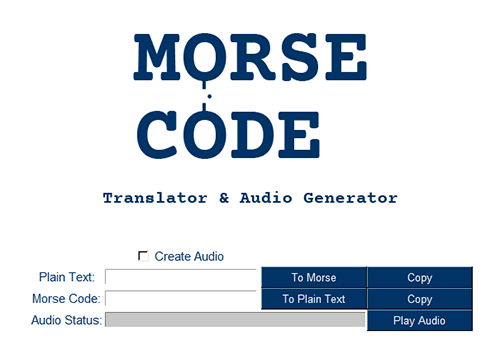
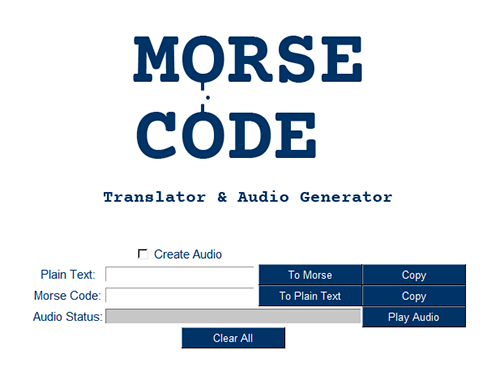
v0.8.0
Two new utility functions: one that sets the global variable (`most_recent_filepath`), and one that clears all input/output fields; new button for the new clearing function; main function in `morse_code.py` that is called only if the file is run directly; functions now call the new setting utility function instead of writing directly to the above-mentioned global variable; improved regex patterns verbose descriptions, a module docstrings and added a comment for the global variable.

Changed region(s): [[0.06, 0.6417, 0.96, 0.9472], [0.27, 0.0917, 0.75, 0.4583], [0.21, 0.4889, 0.81, 0.5806]]

diff --git a/modules/functions.py b/modules/functions.py
@@ -1,8 +1,15 @@
 """
 This module contains all the functions used by the application.
 
-It defines: play_audio_file, create_audio_file,
-translate_to_morse_code, translate_to_plain_text & copy_to_clipboard.
+It defines:
+1. play_audio_file(),
+2. change_entry_text(),
+3. change_most_recent(),
+4. create_audio_file(),
+5. translate_to_morse_code(),
+6. translate_to_plain_text(),
+7. copy_to_clipboard(),
+8. and clear_all().
 """
 
 import tkinter as tk
@@ -16,6 +23,7 @@ import pyperclip
 import pycw
 from modules.globals import *
 
+# Path to the most recently generated audio file
 most_recent_audio_filepath: str = ""
 
 
@@ -76,6 +84,22 @@ def change_entry_text(entry_to_change: tk.Entry, change_to: str = "") -> None:
         entry_to_change.config(state="readonly")
 
 
+def change_most_recent_filepath(change_to: str = "") -> None:
+    """A utility function to change the most_recent_filepath
+    global variable.
+
+    Args:
+        change_to: str: The value to assign to the global variable.
+        Defaults to an empty str.
+
+    Returns:
+        None
+    """
+
+    global most_recent_audio_filepath
+    most_recent_audio_filepath = change_to
+
+
 def create_audio_file(normalized_text: str, audio_status: tk.Entry) -> None:
     """Generate the Morse code audio file from a normalized text.
 
@@ -100,8 +124,7 @@ def create_audio_file(normalized_text: str, audio_status: tk.Entry) -> None:
             normalized_text = re.sub(pattern=PATT_SANITIZE_PLAIN_TEXT_INPUT, repl="", string=normalized_text)
 
         else:
-            global most_recent_audio_filepath
-            most_recent_audio_filepath = ""
+            change_most_recent_filepath()
             change_entry_text(entry_to_change=audio_status)
             return None
 
@@ -134,7 +157,7 @@ def create_audio_file(normalized_text: str, audio_status: tk.Entry) -> None:
 
     else:
         # Save the audio filepath as the most recent one
-        most_recent_audio_filepath = audio_filepath
+        change_most_recent_filepath(change_to=audio_filepath)
         change_entry_text(entry_to_change=audio_status, change_to=f"{AUDIO_READY_MESSAGE} {most_recent_audio_filepath}")
 
 
@@ -180,8 +203,7 @@ def translate_to_morse_code(user_plain_text: str, audio_request: bool, audio_sta
             # any text in the most_recent_audio_filepath
             # and in audio_status, then display a warning
             # about the meaningless sequence in the input.
-            global most_recent_audio_filepath
-            most_recent_audio_filepath = ""
+            change_most_recent_filepath()
             change_entry_text(entry_to_change=audio_status)
             msgbox.showwarning(title=MSGBOX_TITLE_WARNING, message=MSGBOX_MSG_MEANINGLESS_TO_MORSE_WARNING)
 
@@ -241,14 +263,13 @@ def translate_to_plain_text(user_morse_code_text: str, audio_request: bool,
             # any text in the most_recent_audio_filepath
             # and in audio_status, then display a warning
             # about the meaningless sequence in the input.
-            global most_recent_audio_filepath
-            most_recent_audio_filepath = ""
+            change_most_recent_filepath()
             change_entry_text(entry_to_change=audio_status)
             msgbox.showwarning(title=MSGBOX_TITLE_WARNING, message=MSGBOX_MSG_MEANINGLESS_TO_PLAIN_WARNING)
 
 
 def copy_to_clipboard(text_to_copy: str) -> None:
-    """A utility function to copy the arg to the clipboard.
+    """A utility function that copies the arg to the clipboard.
 
     Args:
         text_to_copy: str: String from an entry widget.
@@ -258,7 +279,7 @@ def copy_to_clipboard(text_to_copy: str) -> None:
     """
 
     if text_to_copy:
-        # Copy the text to the system clipboard and display
+        # Copy text to the system clipboard and display
         # a success message to the user.
         pyperclip.copy(text=text_to_copy)
         msgbox.showinfo(title=MSGBOX_TITLE_SUCCESS, message=MSGBOX_MSG_COPY_SUCCESS)
@@ -266,3 +287,20 @@ def copy_to_clipboard(text_to_copy: str) -> None:
     else:
         # Display a warning if there is no input
         msgbox.showwarning(title=MSGBOX_TITLE_WARNING, message=MSGBOX_MSG_COPY_WARNING)
+
+
+def clear_all(*args: tk.Entry) -> None:
+    """Clears all text input and output fields.
+
+    Args:
+        args: tk.Entry: A variable number of entry widgets to clear
+                        all text from.
+
+    Returns:
+          None
+    """
+
+    for widget in args:
+        change_entry_text(entry_to_change=widget)
+
+    change_most_recent_filepath()

diff --git a/modules/globals.py b/modules/globals.py
@@ -7,7 +7,7 @@ output audio settings and regex patterns.
 
 import re
 
-APP_TITLE: str = "Morse Code Translator & Audio Generator v0.7.0"
+APP_TITLE: str = "Morse Code Translator & Audio Generator v0.8.0"
 MORSE_CODE_DICT: dict = {"A": ".-", "B": "-...", "C": "-.-.", "D": "-..", "E": ".", "F": "..-.", "G": "--.",
                          "H": "....", "I": "..", "J": ".---", "K": "-.-", "L": ".-..", "M": "--", "N": "-.",
                          "O": "---", "P": ".--.", "Q": "--.-", "R": ".-.", "S": "...", "T": "-", "U": "..-",
@@ -48,6 +48,7 @@ BUTTON_TRANSLATE_TO_MORSE_TEXT: str = "To Morse"
 BUTTON_TRANSLATE_TO_PLAIN_TEXT: str = "To Plain Text"
 BUTTON_COPY_TEXT: str = "Copy"
 BUTTON_PLAY_TEXT: str = "Play Audio"
+BUTTON_CLEAR_TEXT: str = "Clear All"
 
 # Labels
 LABEL_PLAIN_TEXT_IO_TEXT: str = "Plain Text:"
@@ -106,7 +107,7 @@ AUDIO_READY_MESSAGE: str = "READY:"
 
 # Regex Patterns
 PATT_SANITIZE_MORSE_CODE_INPUT = re.compile(r"""
-    [.\-/ ]+   # Match one or more of the characters: dot, dash, slash, space
+    [.\-/ ]+   # Match one or more of these characters (only they can be translated from Morse code to plain text)
 """, re.VERBOSE)
 
 PATT_SANITIZE_PLAIN_TEXT_INPUT = re.compile(r"""

diff --git a/modules/UI.py b/modules/UI.py
@@ -124,6 +124,18 @@ button_play_audio = tk.Button(text=BUTTON_PLAY_TEXT,
                               border=BUTTON_BORDER_WIDTH)
 button_play_audio.grid(column=3, row=4)
 
+button_clear_all = tk.Button(text=BUTTON_CLEAR_TEXT,
+                             font=FONT_BUTTON,
+                             width=BUTTON_WIDTH,
+                             command=lambda: clear_all(entry_plain_text_io, entry_morse_code_io,
+                                                       entry_audio_status),
+                             bg=BUTTON_BG_COLOR,
+                             fg=BUTTON_TEXT_COLOR,
+                             activebackground=BUTTON_PRESSED_BG_COLOR,
+                             activeforeground=BUTTON_TEXT_COLOR,
+                             border=BUTTON_BORDER_WIDTH)
+button_clear_all.grid(column=1, row=5, columnspan=2)
+
 # Checkbox for deciding whether to produce the audio file
 audio_requested = tk.BooleanVar(value=CHECKBOX_VAL_OFF)  # Holds the current decision (bool), defaults to off (False)
 

diff --git a/morse_code.py b/morse_code.py
@@ -1,5 +1,5 @@
 """
-Morse Code Translator & Audio Generator v0.7.0
+Morse Code Translator & Audio Generator v0.8.0
 
 This script provides a GUI application to translate text to Morse code, and vice versa,
 generate audio files for the Morse code, and play them back.
@@ -18,5 +18,17 @@ No command-line arguments are required.
 
 import modules.UI as UI
 
-# Entering the main loop
-UI.tk.mainloop()
+
+def main() -> None:
+    """The main function of the app.
+
+    Returns:
+        None
+    """
+
+    # Entering the main loop
+    UI.tk.mainloop()
+
+
+if __name__ == "__main__":
+    main()

diff --git a/CHANGES.md b/CHANGES.md
@@ -1,3 +1,16 @@
+## [v0.8.0] -- 2024-07-20
+### Added
+- A utility function `change_most_recent_filepath()` that, as the name suggests, sets the global variable to a new value.
+- A utility function `clear_all()` that will clear all input/output fields in the app (and will call the above-mentioned function, too).
+- A new button `button_clear_all` and the related UI functionality.
+- A main function in `morse_code.py` that will only be called if the file is run directly.
+- A comment for the global variable `most_recent_audio_filepath`.
+
+### Changed
+- Functions will now call `change_most_recent_filepath()` instead of writing to `most_recent_audio_filepath` themselves.
+- Regex patterns verbose descriptions for clarity.
+- Module docstrings in `functions.py` for readibility.
+
 ## [v0.7.0] -- 2024-07-19
 ### Added
 - A regex pattern used in searching for and, optionally, removing illegal characters (unsupported by the pycw module) in plain text input.

diff --git a/README.md b/README.md
@@ -1,4 +1,4 @@
-# Morse Code Translator & Audio Generator v0.7.0
+# Morse Code Translator & Audio Generator v0.8.0
 
 This project provides a GUI application that translates text into Morse code, and vice versa, generates audio files for the Morse code, and allows playback of these audio files.
 
